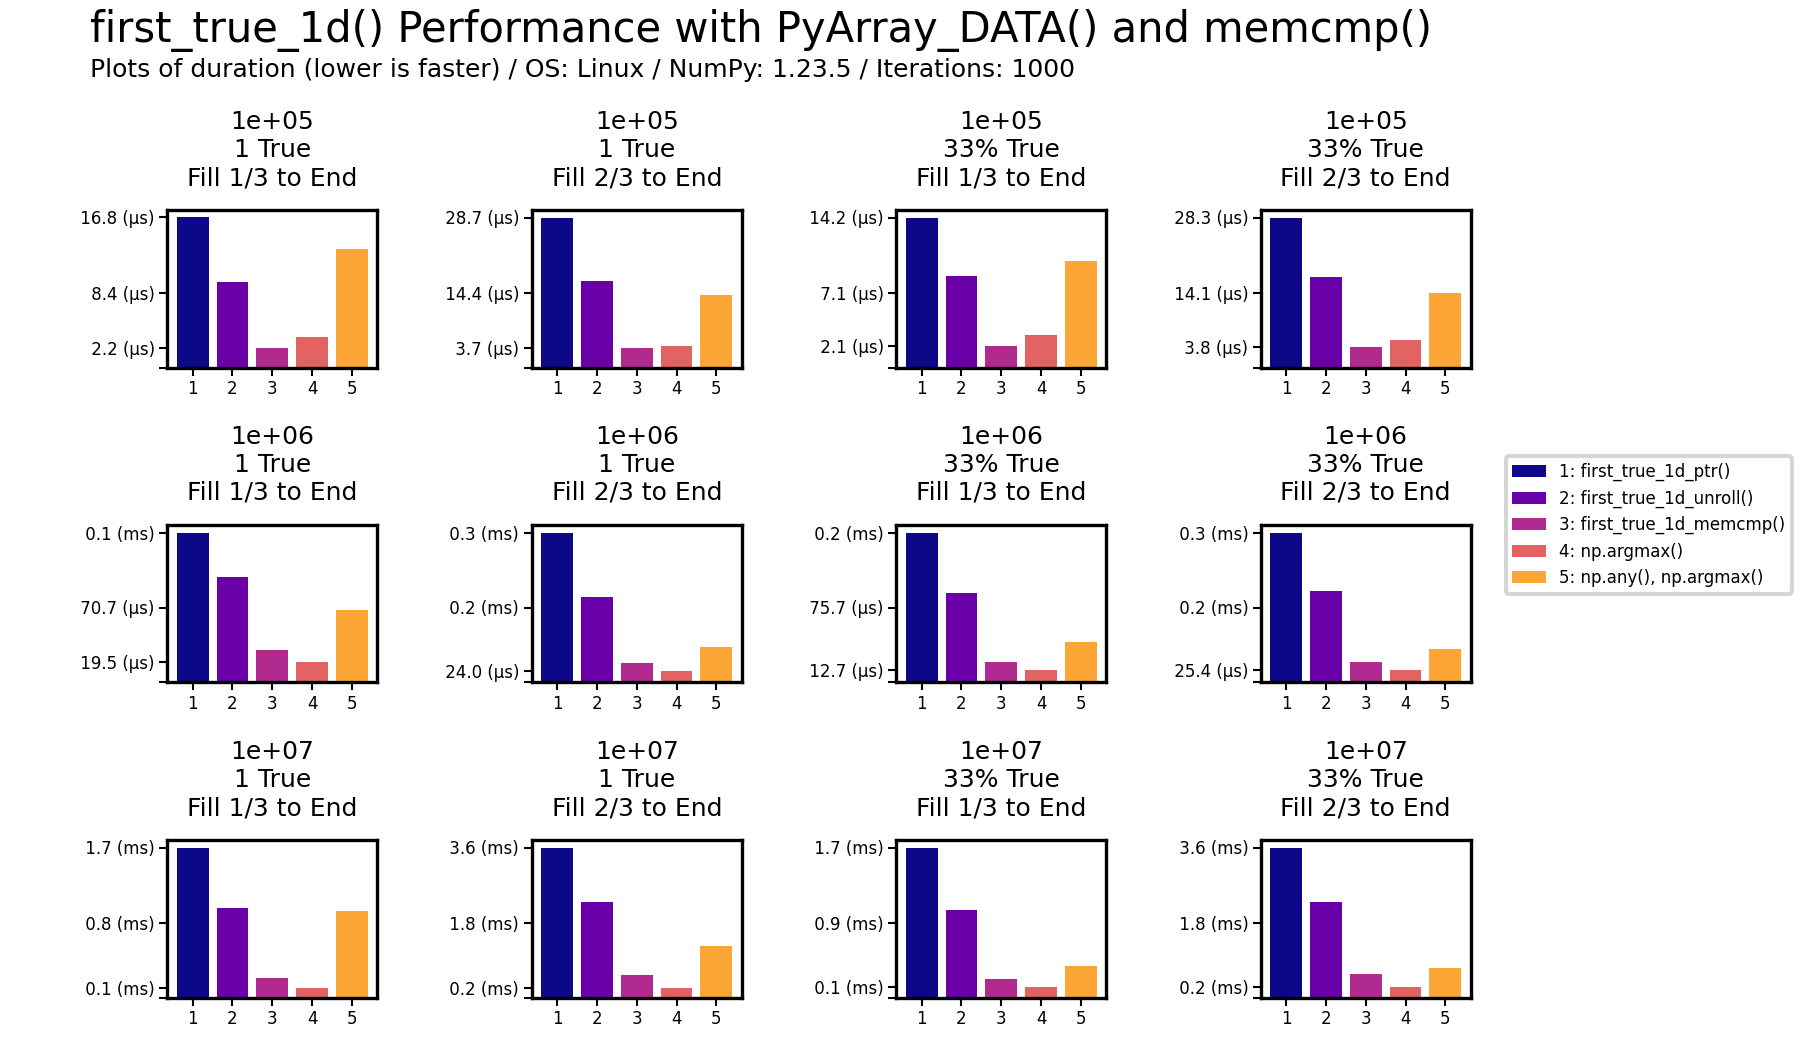
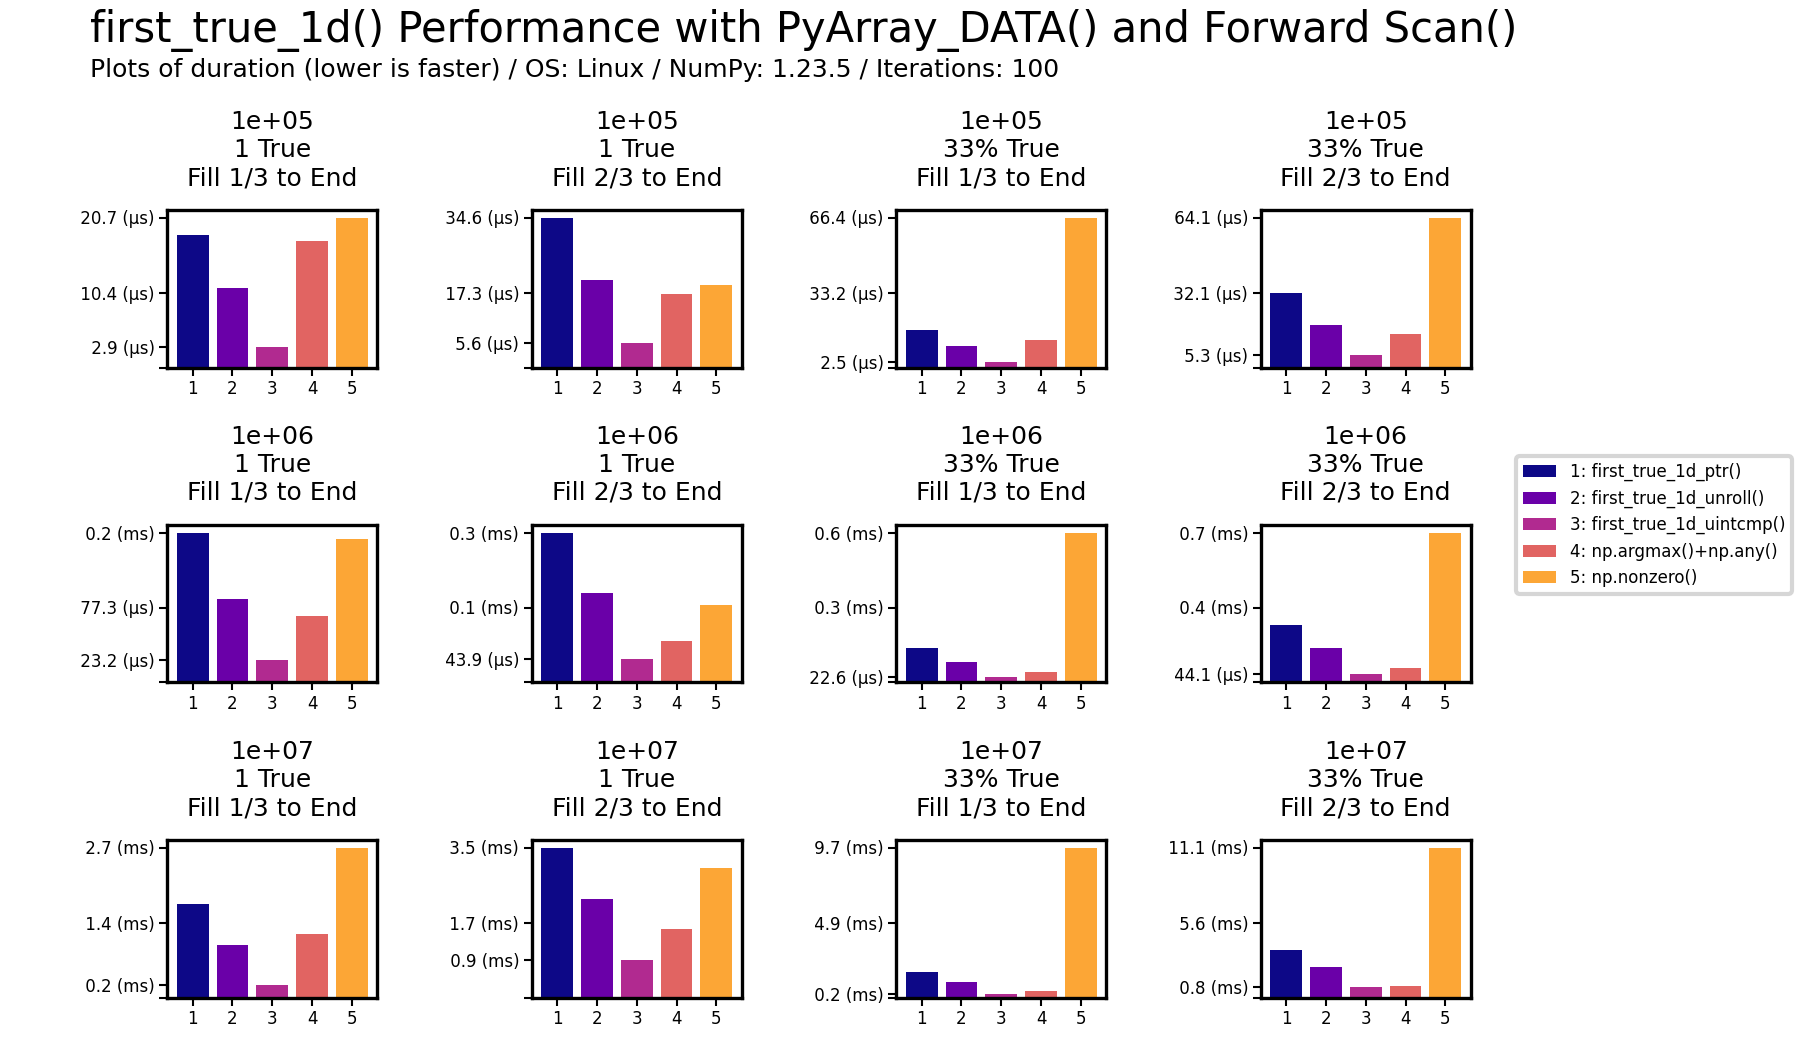
updated slides, graphs

diff --git a/doc/plot/first_true_1d.py b/doc/plot/first_true_1d.py
@@ -11,7 +11,7 @@ from np_bench import first_true_1d_getptr
 from np_bench import first_true_1d_ptr
 from np_bench import first_true_1d_ptr_unroll
 from np_bench import first_true_1d_memcmp
-from np_bench import first_true_1d_intcmp
+from np_bench import first_true_1d_uintcmp
 
 sys.path.append(os.getcwd())
 
@@ -71,12 +71,12 @@ class AKFirstTrueMemcmp(ArrayProcessor):
         _ = first_true_1d_memcmp(self.array, True)
 
 
-class AKFirstTrueIntcmp(ArrayProcessor):
-    NAME = 'first_true_1d_intcmp()'
+class AKFirstTrueUintcmp(ArrayProcessor):
+    NAME = 'first_true_1d_scan()'
     SORT = 7
 
     def __call__(self):
-        _ = first_true_1d_intcmp(self.array, True)
+        _ = first_true_1d_uintcmp(self.array, True)
 
 
 
@@ -107,7 +107,7 @@ class NPArgMax(ArrayProcessor):
         _ = np.argmax(self.array)
 
 class NPNotAnyArgMax(ArrayProcessor):
-    NAME = 'np.any(), np.argmax()'
+    NAME = 'np.argmax()+np.any()'
     SORT = 20
 
     def __call__(self):
@@ -236,34 +236,34 @@ if __name__ == '__main__':
     directory = Path('doc/bnpy-scipy-2023/public')
 
     for fn, title, processors in (
-        # ('ft1d-fig-0.png',
-        #         'np.nonzero(), np.argmax() Performance',
-        #         (NPNonZero, NPNotAnyArgMax)),
-        # ('ft1d-fig-1.png',
-        #         'first_true_1d() Performance with PyArray_GETITEM()',
-        #         (AKFirstTrueGetitem, NPNonZero, NPNotAnyArgMax)),
+        ('ft1d-fig-0.png',
+                'np.nonzero(), np.argmax() Performance',
+                (NPNonZero, NPNotAnyArgMax)),
+        ('ft1d-fig-1.png',
+                'first_true_1d() Performance with PyArray_GETITEM()',
+                (AKFirstTrueGetitem, NPNonZero, NPNotAnyArgMax)),
         # ('ft1d-fig-2.png',
         #         'first_true_1d() Performance with PyArray_ToScalar()',
         #         (AKFirstTrueGetitem, AKFirstTrueScalar, NPNonZero, NPNotAnyArgMax)),
-        # ('ft1d-fig-3.png',
-        #         'first_true_1d() Performance with PyArray_GETPTR1()',
-        #         (AKFirstTrueGetitem, AKFirstTrueScalar, AKFirstTrueGetptr, NPNonZero, NPNotAnyArgMax)),
-        # ('ft1d-fig-4.png',
-        #         'first_true_1d() Performance with PyArray_GETPTR1()',
-        #         (AKFirstTrueGetptr, NPNonZero, NPNotAnyArgMax)),
-        # ('ft1d-fig-5.png',
-        #         'first_true_1d() Performance with NpyIter',
-        #         (AKFirstTrueGetptr, AKFirstTrueNpyiter, NPNonZero, NPNotAnyArgMax)),
-        # ('ft1d-fig-6.png',
-        #         'first_true_1d() Performance with PyArray_DATA()',
-        #         (AKFirstTrueGetptr, AKFirstTruePtr, NPNonZero, NPNotAnyArgMax)),
-        # ('ft1d-fig-7.png',
-        #         'first_true_1d() Performance with PyArray_DATA() with Loop Unrolling',
-        #         (AKFirstTrueGetptr, AKFirstTruePtr, AKFirstTruePtrUnroll, NPNonZero, NPNotAnyArgMax)),
-        # ('ft1d-fig-8.png',
-        #         'first_true_1d() Performance with PyArray_DATA() and memcmp()',
-        #         (AKFirstTruePtr, AKFirstTruePtrUnroll, AKFirstTrueMemcmp, NPArgMax, NPNotAnyArgMax)),
-        ('ft1d-fig-9.png',
+        ('ft1d-fig-3.png',
+                'first_true_1d() Performance with PyArray_GETPTR1()',
+                (AKFirstTrueGetitem, AKFirstTrueGetptr, NPNonZero, NPNotAnyArgMax)),
+        ('ft1d-fig-4.png',
+                'first_true_1d() Performance with PyArray_GETPTR1()',
+                (AKFirstTrueGetptr, NPNonZero, NPNotAnyArgMax)),
+        ('ft1d-fig-5.png',
+                'first_true_1d() Performance with NpyIter',
+                (AKFirstTrueGetptr, AKFirstTrueNpyiter, NPNonZero, NPNotAnyArgMax)),
+        ('ft1d-fig-6.png',
+                'first_true_1d() Performance with PyArray_DATA()',
+                (AKFirstTrueGetptr, AKFirstTruePtr, NPNonZero, NPNotAnyArgMax)),
+        ('ft1d-fig-7.png',
+                'first_true_1d() Performance with PyArray_DATA() with Loop Unrolling',
+                (AKFirstTrueGetptr, AKFirstTruePtr, AKFirstTruePtrUnroll, NPNonZero, NPNotAnyArgMax)),
+        ('ft1d-fig-8.png',
+                'first_true_1d() Performance with PyArray_DATA() and Forward Scan()',
+                (AKFirstTruePtr, AKFirstTruePtrUnroll, AKFirstTrueUintcmp, NPNonZero, NPNotAnyArgMax)),
+        # ('ft1d-fig-9.png',
                 'first_true_1d() Performance (Log scale)',
                 (AKFirstTrueGetitem,
                 #  AKFirstTrueScalar,
@@ -271,9 +271,9 @@ if __name__ == '__main__':
                  AKFirstTrueNpyiter,
                  AKFirstTruePtr,
                  AKFirstTruePtrUnroll,
-                 AKFirstTrueMemcmp,
-                 AKFirstTrueIntcmp,
-                 NPArgMax,
+                #  AKFirstTrueMemcmp,
+                 AKFirstTrueUintcmp,
+                #  NPArgMax,
                  NPNotAnyArgMax,
                  NPNonZero)),
 
@@ -283,7 +283,7 @@ if __name__ == '__main__':
                 processors=processors,
                 fp=directory / fn,
                 title=title,
-                number=100,
+                number=1000,
                 )
 
 

diff --git a/np_bench.c b/np_bench.c
@@ -461,13 +461,13 @@ first_true_1d_memcmp(PyObject *Py_UNUSED(m), PyObject *args)
 
 
 static PyObject*
-first_true_1d_intcmp(PyObject *Py_UNUSED(m), PyObject *args)
+first_true_1d_uintcmp(PyObject *Py_UNUSED(m), PyObject *args)
 {
     PyArrayObject *array = NULL;
     int forward = 1;
 
     if (!PyArg_ParseTuple(args,
-            "O!p:first_true_1d_intcmp",
+            "O!p:first_true_1d_uintcmp",
             &PyArray_Type, &array,
             &forward)) {
         return NULL;
@@ -894,7 +894,7 @@ static PyMethodDef npb_methods[] =  {
     {"first_true_1d_ptr", (PyCFunction)first_true_1d_ptr, METH_VARARGS, NULL},
     {"first_true_1d_ptr_unroll", (PyCFunction)first_true_1d_ptr_unroll, METH_VARARGS, NULL},
     {"first_true_1d_memcmp", (PyCFunction)first_true_1d_memcmp, METH_VARARGS, NULL},
-    {"first_true_1d_intcmp", (PyCFunction)first_true_1d_intcmp, METH_VARARGS, NULL},
+    {"first_true_1d_uintcmp", (PyCFunction)first_true_1d_uintcmp, METH_VARARGS, NULL},
     {"first_true_2d_unroll",
             (PyCFunction)first_true_2d_unroll,
             METH_VARARGS | METH_KEYWORDS,

diff --git a/test/test_unit.py b/test/test_unit.py
@@ -13,7 +13,7 @@ def test_first_true_1d_a():
             npb.first_true_1d_ptr,
             npb.first_true_1d_ptr_unroll,
             npb.first_true_1d_memcmp,
-            npb.first_true_1d_intcmp,
+            npb.first_true_1d_uintcmp,
             ):
         assert (
             func(np.array([False, False, True, False]), True) == 2)
@@ -32,7 +32,7 @@ def test_first_true_1d_b():
             npb.first_true_1d_ptr,
             npb.first_true_1d_ptr_unroll,
             npb.first_true_1d_memcmp,
-            npb.first_true_1d_intcmp,
+            npb.first_true_1d_uintcmp,
             ):
         assert (
             func( np.array([False, False, True, False]), False) == 2)
